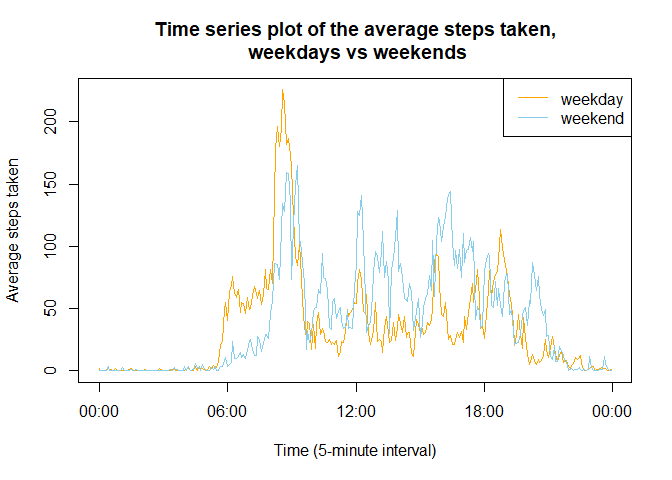
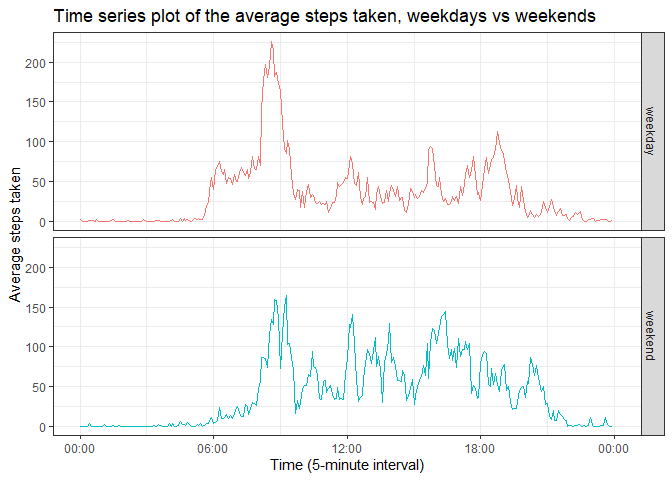
my trial - final

diff --git a/PA1_template.html b/PA1_template.html
@@ -361,6 +361,7 @@ display: none;
 <h4><strong>Load packages and set language of system time</strong></h4>
 <pre class="r"><code>library(dplyr)
 library(data.table)
+library(ggplot2)
 Sys.setlocale(&quot;LC_TIME&quot;,&quot;en_US.UTF-8&quot;) </code></pre>
 </div>
 <div id="download-and-read-data-file" class="section level4">
@@ -399,8 +400,7 @@ steps taken each day</strong></h4>
 <pre class="r"><code>median(totalsteps_day$totalsteps)</code></pre>
 <pre><code>## [1] 10765</code></pre>
 <p>The mean number of total steps taken each day is 1.0766189^{4}.<br />
-The median number of total steps taken each day is 10765.<br />
-</p>
+The median number of total steps taken each day is 10765.</p>
 <hr />
 </div>
 </div>
@@ -437,8 +437,7 @@ number of steps</strong></h4>
 print(theinterval)</code></pre>
 <pre><code>## [1] &quot;08:35 - 08:40&quot;</code></pre>
 <p>The 5-minute interval that, on average, contains the maximum number
-of steps is 08:35 - 08:40.<br />
-</p>
+of steps is 08:35 - 08:40.</p>
 <hr />
 </div>
 </div>
@@ -450,8 +449,7 @@ data</strong></h2>
 the dataset</strong></h4>
 <pre class="r"><code>sum(is.na(data$steps))</code></pre>
 <pre><code>## [1] 2304</code></pre>
-<p>The total number of missing values in the dataset is 2304.<br />
-</p>
+<p>The total number of missing values in the dataset is 2304.</p>
 </div>
 <div id="devise-a-strategy-for-filling-in-all-of-the-missing-values-in-the-dataset" class="section level4">
 <h4><strong>Devise a strategy for filling in all of the missing values
@@ -459,8 +457,7 @@ in the dataset</strong></h4>
 <p>The strategy for filling in all of the missing values is using the
 mean for that 5-minute interval which would be adjusted by the average
 total steps per day of surrounding 4 days (if data exists) compared to
-the average total steps per day for all days.<br />
-</p>
+the average total steps per day for all days.</p>
 </div>
 <div id="create-a-new-dataset-that-is-equal-to-the-original-dataset-but-with-the-missing-data-filled-in" class="section level4">
 <h4><strong>Create a new dataset that is equal to the original dataset
@@ -504,9 +501,7 @@ day</strong></h4>
 <pre><code>## [1] 10571</code></pre>
 <p>The mean number of total steps taken each day is 1.0543693^{4}.<br />
 The median number of total steps taken each day is 1.0571^{4}.<br />
-Both mean and median numbers become a little bit lower than
-before.<br />
-</p>
+Both mean and median numbers become a little bit lower than before.</p>
 <pre class="r"><code>plot(as.POSIXct(totalsteps_eachday_all$date),
      totalsteps_eachday_all$totalsteps,
      main=&quot;Total number of steps taken each day \n before and after imputing missing values&quot;,
@@ -518,14 +513,14 @@ points(as.POSIXct(totalsteps_day_imputed$date),
        pch=8,
        col=&quot;red&quot;)
 abline(v=as.POSIXct(c(&quot;2012-10-01&quot;,&quot;2012-10-08&quot;,&quot;2012-11-01&quot;,&quot;2012-11-04&quot;,&quot;2012-11-09&quot;,&quot;2012-11-10&quot;,&quot;2012-11-14&quot;,&quot;2012-11-30&quot;)),
-       col=&quot;orange&quot;,lty=2)
+       col=&quot;orange&quot;,
+       lty=2)
 legend(&quot;topleft&quot;,pch=c(1,8),col=c(&quot;black&quot;,&quot;red&quot;),legend=c(&quot;before imputing&quot;,&quot;after imputing&quot;))</code></pre>
[1 lines of base64/hex data omitted]
 <p>After imputing the missing values, 8 days with all NA records are
 filled with simulated values. The accuracy depends on the imputing
 strategy used, but in general it does not affect too much on the
-estimates of the total daily number of steps.<br />
-</p>
+estimates of the total daily number of steps.</p>
 <pre class="r"><code>summary(totalsteps_day$totalsteps)</code></pre>
 <pre><code>##    Min. 1st Qu.  Median    Mean 3rd Qu.    Max. 
 ##      41    8841   10765   10766   13294   21194</code></pre>
@@ -559,24 +554,18 @@ averagesteps_time_day_imputed &lt;- as.data.table(summarize(data_imputed_time_da
 names(averagesteps_time_day_imputed)[3] &lt;- &quot;averagesteps&quot; 
 averagesteps_time_day_imputed &lt;- mutate(averagesteps_time_day_imputed,time=sprintf(&quot;%04d&quot;,as.integer(interval))) 
 averagesteps_time_day_imputed$time &lt;- as.POSIXct(strptime(paste(&quot;2026-05-09&quot;,averagesteps_time_day_imputed$time),&quot;%Y-%m-%d %H%M&quot;)) 
-plot(averagesteps_time_day_imputed[day==&quot;weekday&quot;,]$time,
-     averagesteps_time_day_imputed[day==&quot;weekday&quot;,]$averagesteps,
-     col=&quot;orange&quot;,
-     type=&quot;l&quot;,
-     main=&quot;Time series plot of the average steps taken,\n weekdays vs weekends&quot;,xlab=&quot;Time (5-minute interval)&quot;,
-     ylab=&quot;Average steps taken&quot;,
-     xaxt=&quot;n&quot;) 
-points(averagesteps_time_day_imputed[day==&quot;weekend&quot;,]$time,
-       averagesteps_time_day_imputed[day==&quot;weekend&quot;,]$averagesteps,
-       col=&quot;skyblue&quot;,
-       type=&quot;l&quot;) 
-axis(side=1, 
-     at=c(as.POSIXct(&quot;2026-05-09 00:00:00&quot;),as.POSIXct(&quot;2026-05-09 06:00:00&quot;),as.POSIXct(&quot;2026-05-09 12:00:00&quot;),
-          as.POSIXct(&quot;2026-05-09 18:00:00&quot;),as.POSIXct(&quot;2026-05-10 00:00:00&quot;)), 
-     labels=format(c(as.POSIXct(&quot;2026-05-09 00:00:00&quot;),as.POSIXct(&quot;2026-05-09 06:00:00&quot;),as.POSIXct(&quot;2026-05-09 12:00:00&quot;),
-                     as.POSIXct(&quot;2026-05-09 18:00:00&quot;),as.POSIXct(&quot;2026-05-10 00:00:00&quot;)),&quot;%H:%M&quot;)) 
-legend(&quot;topright&quot;,lty=1,col=c(&quot;orange&quot;,&quot;skyblue&quot;),legend=c(&quot;weekday&quot;,&quot;weekend&quot;))</code></pre>
[1 lines of base64/hex data omitted]
+ggplot(averagesteps_time_day_imputed,aes(time,averagesteps,colour=day))+
+  geom_line(show.legend=FALSE)+
+  facet_grid(day~.)+
+  theme_bw()+
+  ggtitle(&quot;Time series plot of the average steps taken, weekdays vs weekends&quot;)+
+  xlab(&quot;Time (5-minute interval)&quot;)+
+  ylab(&quot;Average steps taken&quot;)+
+  scale_x_datetime(limits=c(as.POSIXct(&quot;2026-05-09 00:00:00&quot;),as.POSIXct(&quot;2026-05-10 00:00:00&quot;)),
+                   breaks=c(as.POSIXct(&quot;2026-05-09 00:00:00&quot;),as.POSIXct(&quot;2026-05-09 06:00:00&quot;),as.POSIXct(&quot;2026-05-09 12:00:00&quot;),
+                            as.POSIXct(&quot;2026-05-09 18:00:00&quot;),as.POSIXct(&quot;2026-05-10 00:00:00&quot;)),
+                   date_labels=&quot;%H:%M&quot;)</code></pre>
[1 lines of base64/hex data omitted]
 </div>
 </div>
 

diff --git a/PA1_template.md b/PA1_template.md
@@ -15,6 +15,7 @@ output:
 ``` r
 library(dplyr)
 library(data.table)
+library(ggplot2)
 Sys.setlocale("LC_TIME","en_US.UTF-8") 
 ```
 
@@ -73,7 +74,7 @@ median(totalsteps_day$totalsteps)
 ```
 
 The mean number of total steps taken each day is 1.0766189\times 10^{4}.\
-The median number of total steps taken each day is 10765.\
+The median number of total steps taken each day is 10765.
 
 ------------------------------------------------------------------------
 
@@ -117,7 +118,7 @@ print(theinterval)
 ## [1] "08:35 - 08:40"
 ```
 
-The 5-minute interval that, on average, contains the maximum number of steps is 08:35 - 08:40.\
+The 5-minute interval that, on average, contains the maximum number of steps is 08:35 - 08:40.
 
 ------------------------------------------------------------------------
 
@@ -134,11 +135,11 @@ sum(is.na(data$steps))
 ## [1] 2304
 ```
 
-The total number of missing values in the dataset is 2304.\
+The total number of missing values in the dataset is 2304.
 
 #### **Devise a strategy for filling in all of the missing values in the dataset**
 
-The strategy for filling in all of the missing values is using the mean for that 5-minute interval which would be adjusted by the average total steps per day of surrounding 4 days (if data exists) compared to the average total steps per day for all days.\
+The strategy for filling in all of the missing values is using the mean for that 5-minute interval which would be adjusted by the average total steps per day of surrounding 4 days (if data exists) compared to the average total steps per day for all days.
 
 #### **Create a new dataset that is equal to the original dataset but with the missing data filled in**
 
@@ -199,7 +200,7 @@ median(totalsteps_day_imputed$totalsteps)
 
 The mean number of total steps taken each day is 1.0543693\times 10^{4}.\
 The median number of total steps taken each day is 1.0571\times 10^{4}.\
-Both mean and median numbers become a little bit lower than before.\
+Both mean and median numbers become a little bit lower than before.
 
 
 ``` r
@@ -214,13 +215,14 @@ points(as.POSIXct(totalsteps_day_imputed$date),
        pch=8,
        col="red")
 abline(v=as.POSIXct(c("2012-10-01","2012-10-08","2012-11-01","2012-11-04","2012-11-09","2012-11-10","2012-11-14","2012-11-30")),
-       col="orange",lty=2)
+       col="orange",
+       lty=2)
 legend("topleft",pch=c(1,8),col=c("black","red"),legend=c("before imputing","after imputing"))
 ```
 
 ![](PA1_template_files/figure-html/unnamed-chunk-12-1.png)<!-- -->
 
-After imputing the missing values, 8 days with all NA records are filled with simulated values. The accuracy depends on the imputing strategy used, but in general it does not affect too much on the estimates of the total daily number of steps.\
+After imputing the missing values, 8 days with all NA records are filled with simulated values. The accuracy depends on the imputing strategy used, but in general it does not affect too much on the estimates of the total daily number of steps.
 
 
 ``` r
@@ -265,23 +267,17 @@ averagesteps_time_day_imputed <- as.data.table(summarize(data_imputed_time_day,m
 names(averagesteps_time_day_imputed)[3] <- "averagesteps" 
 averagesteps_time_day_imputed <- mutate(averagesteps_time_day_imputed,time=sprintf("%04d",as.integer(interval))) 
 averagesteps_time_day_imputed$time <- as.POSIXct(strptime(paste("2026-05-09",averagesteps_time_day_imputed$time),"%Y-%m-%d %H%M")) 
-plot(averagesteps_time_day_imputed[day=="weekday",]$time,
-     averagesteps_time_day_imputed[day=="weekday",]$averagesteps,
-     col="orange",
-     type="l",
-     main="Time series plot of the average steps taken,\n weekdays vs weekends",xlab="Time (5-minute interval)",
-     ylab="Average steps taken",
-     xaxt="n") 
-points(averagesteps_time_day_imputed[day=="weekend",]$time,
-       averagesteps_time_day_imputed[day=="weekend",]$averagesteps,
-       col="skyblue",
-       type="l") 
-axis(side=1, 
-     at=c(as.POSIXct("2026-05-09 00:00:00"),as.POSIXct("2026-05-09 06:00:00"),as.POSIXct("2026-05-09 12:00:00"),
-          as.POSIXct("2026-05-09 18:00:00"),as.POSIXct("2026-05-10 00:00:00")), 
-     labels=format(c(as.POSIXct("2026-05-09 00:00:00"),as.POSIXct("2026-05-09 06:00:00"),as.POSIXct("2026-05-09 12:00:00"),
-                     as.POSIXct("2026-05-09 18:00:00"),as.POSIXct("2026-05-10 00:00:00")),"%H:%M")) 
-legend("topright",lty=1,col=c("orange","skyblue"),legend=c("weekday","weekend"))
+ggplot(averagesteps_time_day_imputed,aes(time,averagesteps,colour=day))+
+  geom_line(show.legend=FALSE)+
+  facet_grid(day~.)+
+  theme_bw()+
+  ggtitle("Time series plot of the average steps taken, weekdays vs weekends")+
+  xlab("Time (5-minute interval)")+
+  ylab("Average steps taken")+
+  scale_x_datetime(limits=c(as.POSIXct("2026-05-09 00:00:00"),as.POSIXct("2026-05-10 00:00:00")),
+                   breaks=c(as.POSIXct("2026-05-09 00:00:00"),as.POSIXct("2026-05-09 06:00:00"),as.POSIXct("2026-05-09 12:00:00"),
+                            as.POSIXct("2026-05-09 18:00:00"),as.POSIXct("2026-05-10 00:00:00")),
+                   date_labels="%H:%M")
 ```
 
 ![](PA1_template_files/figure-html/unnamed-chunk-15-1.png)<!-- -->